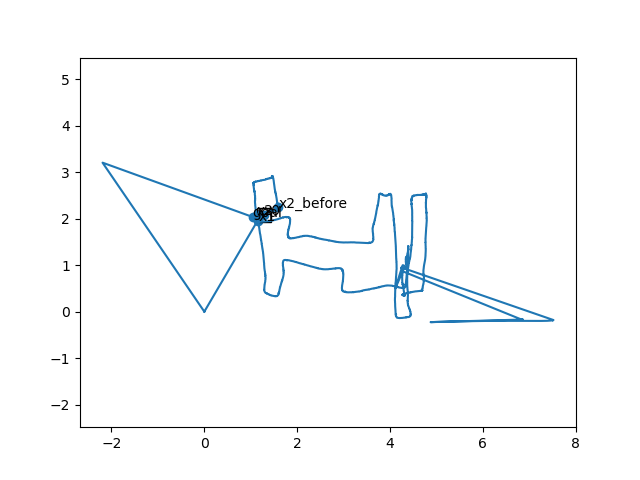
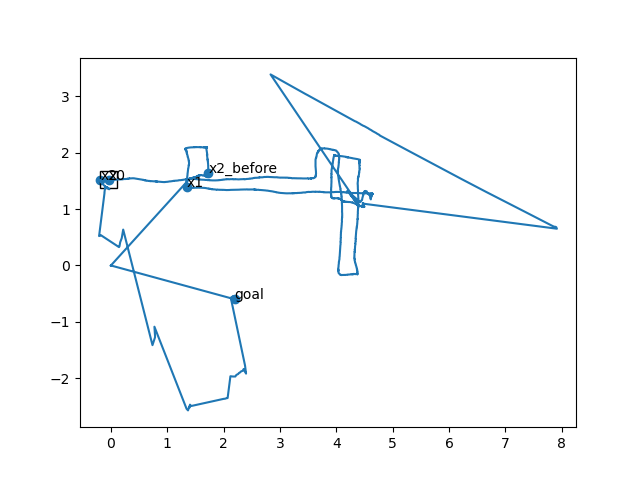
Tuning code working video finale

diff --git a/motion_flying.py b/motion_flying.py
@@ -245,11 +245,11 @@ def get_args():
     #General Arguments
     parser.add_argument('-x', '--arenaX', default='5', type=float,
                         help='size of the arena in X')
-    parser.add_argument('-y', '--arenaY', default='2.4', type=float,
+    parser.add_argument('-y', '--arenaY', default='2', type=float,
                         help='size of the arena in Y')
     parser.add_argument('--startX', default='1', type=float,
                         help='start position in X')
-    parser.add_argument('--startY', default='2', type=float,
+    parser.add_argument('--startY', default='1.5', type=float,
                         help='start position in Y')
     parser.add_argument('--goal_zone', default='3.5', type=float,
                         help='goal zone: landing pad inside, to start exploring')
@@ -265,13 +265,13 @@ def get_args():
                         help='Velocity for obstacle avoidance')
     parser.add_argument('--low_vel_obst', default='0.05', type=float,
                         help='threshold pour la distance au mur')
-    parser.add_argument('--thresh_y', default='0.5', type=float,
+    parser.add_argument('--thresh_y', default='0.8', type=float,
                         help='threshold pour la distance au mur')
     parser.add_argument('--min_dist', default='0.4', type=float,
                         help='min distance for an obstacle to be detected')
     parser.add_argument('--margin', default='0', type=int,
                         help='safety margin for no detection before switching obst_avoid cases')
-    parser.add_argument('--small_dist', default='0.5', type=float,
+    parser.add_argument('--small_dist', default='0.1', type=float,
                         help='Rayon de tolérance pour avoir fini de contourner l obstacle  /!\ a tune en fonction de la vitesse')
     
     #Edge Detection Arguments

diff --git a/obs_avoid.py b/obs_avoid.py
@@ -142,7 +142,8 @@ def  obstacle_avoid_left_right(multiranger_left, multiranger_right, multiranger_
             dronito.velocity_front = dronito.vel_obst 
         else :
             dronito.velocity_front = - dronito.vel_obst 
-        if (dronito.est_x < abs(pos_estimate_before_x + dronito.small_dist)):
+        print(dronito.est_x, pos_estimate_before_x )
+        if (dronito.est_x > abs(pos_estimate_before_x - dronito.small_dist) and (dronito.est_x < abs(pos_estimate_before_x + dronito.small_dist))):
             print('fin state_obs3')
             if (is_close(multiranger_right)):
                 ('right close going left')
@@ -239,11 +240,14 @@ def  obstacle_avoid_front_back(multiranger_left, multiranger_right, multiranger_
     if (state_obs== 3): #state_obs3
         print('state_obs=3')
         if (obstacle_at_left):
+            print("obstacle_at_left")
             dronito.velocity_left = dronito.vel_obst 
         else :
+            print("obstacle_at_right")
             dronito.velocity_left = - dronito.vel_obst 
         dronito.velocity_front = 0
-        if (dronito.est_y < abs(pos_estimate_before_y + dronito.small_dist)):
+        print(dronito.est_y, pos_estimate_before_y )
+        if ((dronito.est_y > abs(pos_estimate_before_y - dronito.small_dist)) and (dronito.est_y < abs(pos_estimate_before_y + dronito.small_dist))):
             print('fin state_obs3')
             if (is_close(multiranger_back)):
                 dronito.velocity_left = 0

diff --git a/drone.py b/drone.py
@@ -77,7 +77,7 @@ class Drone():
         self.vel_obst=args.vel_obst
         self.low_vel_obst=args.low_vel_obst
         self.thresh_y=args.thresh_y
-        self.min_dist=args.min_dist
+        #self.min_dist=args.min_dist
         self.margin=args.margin
         self.small_dist=args.small_dist
         

diff --git a/edge_detection.py b/edge_detection.py
@@ -8,7 +8,7 @@ import time
 VELOCITY_EDGE = 0.5 #before 0.2
 VELOCITY_EDGE_GOAL = 0.1 #before 0.1
 DELTA_X = 0.1
-DELTA_Y = 0.3  #previously 0.25
+DELTA_Y = 0.25  #previously 0.25
 #dronito.delta_x
 #dronito.delta_y
 
